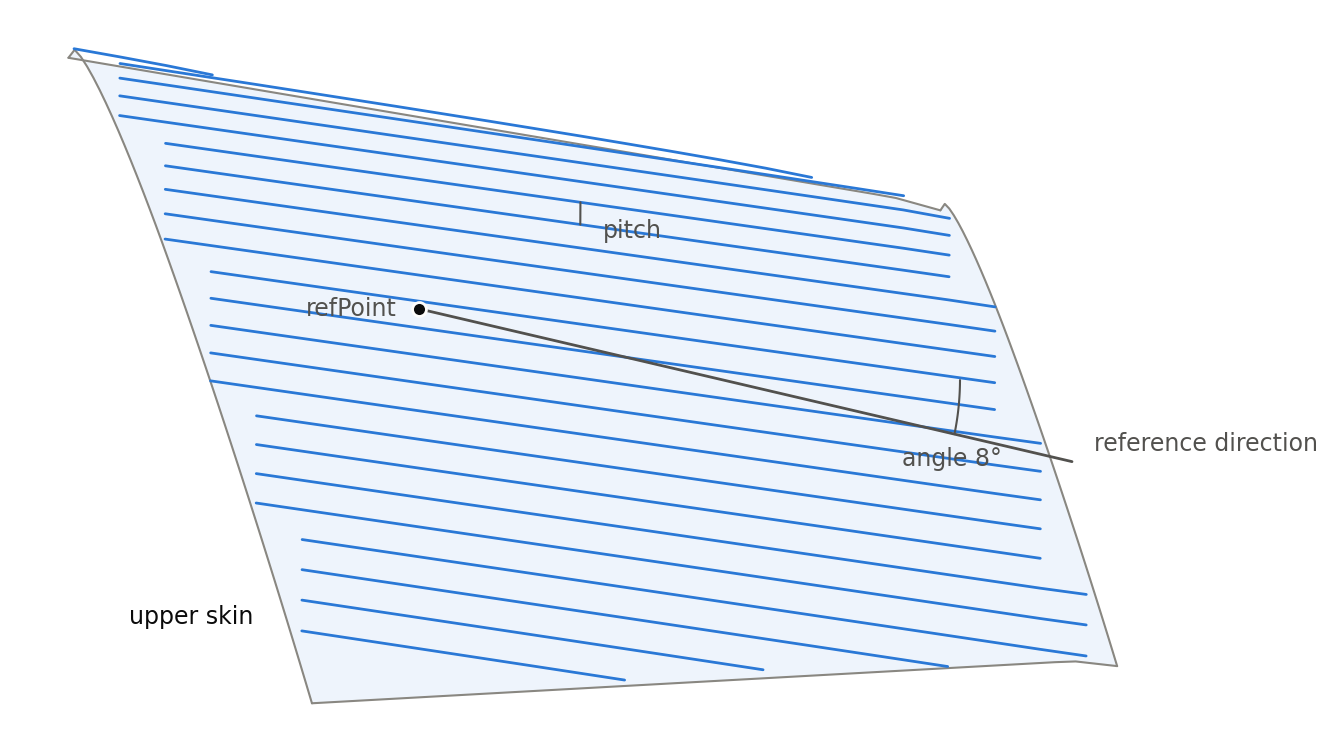
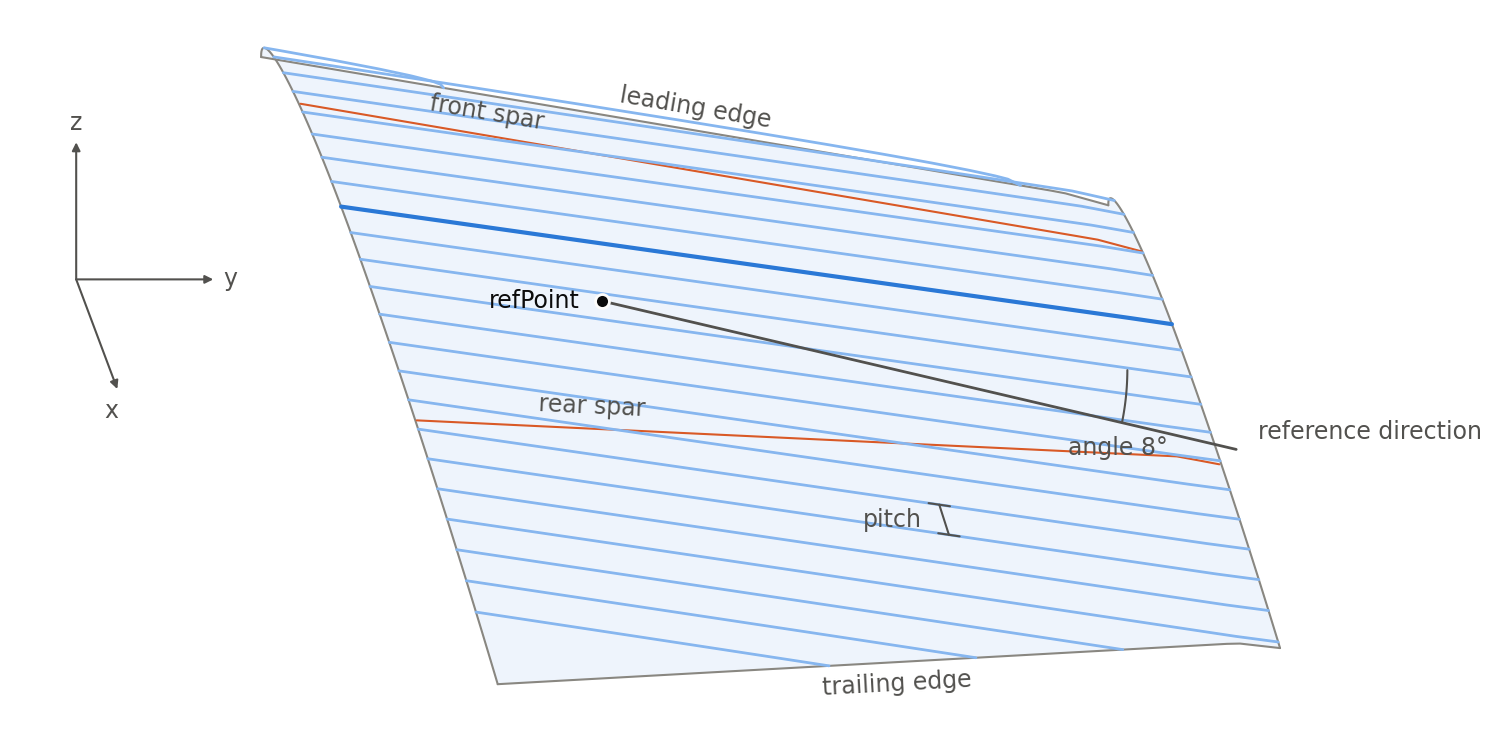
improve wingStringers figure

Changed region(s): [[0.0307, 0.0601, 1.0, 0.9617], [0.0922, 0.8115, 0.1844, 0.8415]]

diff --git a/documentation/scripts/wingStructure.py b/documentation/scripts/wingStructure.py
@@ -52,7 +52,7 @@ from controlSurface import (CONTOURS, Frame, LE_INDEX, draw_wing_section, midpla
 from example_xml import indent, write_cpacs_file
 from figure_style import COLORS, FULL_WIDTH, LINE, figure_style, leader, save_figure
 from structuralProfile import ELEMENT_UID, MATERIAL_UID, element_xml as structural_element_xml, material_xml, profile_xml
-from wing import (AIRFOIL, DOCUMENTATION, FIGURES, INK, INK2, MUTED, NOTE, WING_UID, airfoil_xml,
+from wing import (AIRFOIL, DOCUMENTATION, FIGURES, INK, INK2, MUTED, NOTE, WING_UID, airfoil_xml, arrow,
                   circle_profile_xml,
                   fuselage_xml, wing_xml)
 
@@ -743,24 +743,43 @@ def reference_direction():
     return (last - first) / np.linalg.norm(last - first)
 
 
-def stringer_path(offset, angle, inside=None, samples=160):
+def stringer_path(offset, angle, inside=None, samples=60):
     """One stringer on the upper skin: a straight line in the top view, lifted onto the skin.
 
-    offset is the distance from the reference point, measured perpendicular to the stringer.
+    offset is the distance from the reference point, measured perpendicular to the stringer. The
+    stringer ends where it leaves the skin, found by halving the interval, not at the last sample
+    inside it, so that neighbouring stringers end on a smooth edge.
     """
     direction = rotation_z(angle) @ reference_direction()
     across = np.array([-direction[1], direction[0], 0.0])
     eta, xsi, _ = SHELLS["upperShell"]["stringer"]["refPoint"]
     start = component_segment_point(eta, xsi) + offset * across
-    points = []
-    for t in np.linspace(-20.0, 20.0, samples):
+
+    def on_skin(t):
         try:
             eta, xsi = chord_surface_eta_xsi(start + t * direction)
         except (ValueError, np.linalg.LinAlgError):
-            continue
+            return None
         if 0.0 <= eta <= 1.0 and 0.0 <= xsi <= 1.0 and (inside is None or inside(eta)):
-            points.append(upper_skin_point(eta, xsi))
-    return np.array(points)
+            return upper_skin_point(eta, xsi)
+        return None
+
+    coarse = [t for t in np.linspace(-20.0, 20.0, 400) if on_skin(t) is not None]
+    if len(coarse) < 2:
+        return np.array([])
+
+    def edge(t_in, t_out):
+        for _ in range(40):
+            middle = 0.5 * (t_in + t_out)
+            if on_skin(middle) is None:
+                t_out = middle
+            else:
+                t_in = middle
+        return t_in
+
+    first = edge(coarse[0], coarse[0] - (40.0 / 399))
+    last = edge(coarse[-1], coarse[-1] + (40.0 / 399))
+    return np.array([p for p in (on_skin(t) for t in np.linspace(first, last, samples)) if p is not None])
 
 
 def section_frame(eta):
@@ -962,12 +981,18 @@ def figure_stringers():
     def inside(eta):
         return eta_a <= eta <= eta_b
 
+    def draw(ax, points, color, width, zorder=2, alpha=1.0):
+        ax.plot(*project(np.asarray(points)).T, color=color, lw=width, zorder=zorder, alpha=alpha,
+                solid_capstyle="round")
+
     with figure_style():
-        fig = plt.figure(figsize=(FULL_WIDTH, 3.6))
+        fig = plt.figure(figsize=(FULL_WIDTH, 3.5))
         ax = fig.add_axes((0.0, 0.0, 1.0, 1.0))
 
         # the patch of the upper skin, drawn as its outline
-        etas, xsis = np.linspace(eta_a, eta_b, 40), np.linspace(0.0, 1.0, 40)
+        # the skin turns fastest at the nose, so the chordwise samples are closer together there
+        etas = np.linspace(eta_a, eta_b, 60)
+        xsis = 0.5 * (1.0 - np.cos(np.linspace(0.0, np.pi, 90)))
         leading = np.array([upper_skin_point(eta, 0.0) for eta in etas])
         trailing = np.array([upper_skin_point(eta, 1.0) for eta in etas])
         inner = np.array([upper_skin_point(eta_a, xsi) for xsi in xsis])
@@ -975,37 +1000,67 @@ def figure_stringers():
         ax.add_patch(Polygon(project(np.vstack([leading, outer, trailing[::-1], inner[::-1]])), closed=True,
                              facecolor=SERIES1, alpha=WASH, edgecolor="none", zorder=0))
         for curve in (leading, trailing, inner, outer):
-            ax.plot(*project(curve).T, color=MUTED, lw=LINE["reference"], zorder=1)
+            draw(ax, curve, MUTED, LINE["reference"], zorder=1)
 
-        # the stringers: one runs through the reference point, the others at the pitch from it
+        # the two spars on the skin, so that the reader knows where the wing box is
+        for uid in ("frontSpar", "rearSpar"):
+            vertices = spar_mid_line(uid)
+            trace = [upper_skin_point(*chord_surface_eta_xsi(line_point(vertices, t)[0]))
+                     for t in np.linspace(0.0, 1.0, 120)]
+            trace = [p for p, t in zip(trace, np.linspace(0.0, 1.0, 120))
+                     if inside(chord_surface_eta_xsi(line_point(vertices, t)[0])[0])]
+            draw(ax, trace, SPAR, LINE["reference"], zorder=2)
+        for uid, name, at in (("frontSpar", "front spar", 0.17), ("rearSpar", "rear spar", 0.17)):
+            vertices = spar_mid_line(uid)
+            here = [line_point(vertices, t)[0] for t in (at - 0.01, at, at + 0.01)]
+            on_skin = [project(upper_skin_point(*chord_surface_eta_xsi(q))) for q in here]
+            edge_text(ax, on_skin[0], on_skin[2], on_skin[1], name, distance=GAP, up=True, rotate=True, color=INK2)
+
+        # the stringers: the one through the reference point leads, the others follow at the pitch
         paths = {}
         for k in range(-14, 15):
             path = stringer_path(pitch * k, angle, inside)
             if len(path) > 1:
                 paths[k] = path
-                ax.plot(*project(path).T, color=CELL, lw=LINE["secondary"], zorder=2)
+                draw(ax, path, CELL if k == 0 else COLORS["series1Light"],
+                     LINE["data"] if k == 0 else LINE["secondary"], zorder=4 if k == 0 else 3)
 
-        # the reference direction of the angle, from the reference point of the stringers
+        # the angle, between the reference direction and the stringer through the reference point
         reference = reference_direction()
         corner = component_segment_point(*stringer["refPoint"][:2])
         span = 3.6  # length of the drawn reference direction [m]
-        ax.plot(*project(np.array([corner, corner + span * reference])).T, color=INK2, lw=LINE["secondary"], zorder=3)
+        draw(ax, [corner, corner + span * reference], INK2, LINE["secondary"], zorder=5)
         sector = np.array([corner + 0.82 * span * (rotation_z(a) @ reference) for a in np.linspace(0.0, angle, 40)])
-        ax.plot(*project(sector).T, color=INK2, lw=LINE["reference"], zorder=3)
+        draw(ax, sector, INK2, LINE["reference"], zorder=5)
         text(ax, project(corner + span * reference), "reference direction", (GAP, 2), ha="left", va="bottom",
              color=INK2)
         text(ax, project(corner + 0.92 * span * (rotation_z(0.5 * angle) @ reference)), f"angle {angle:g}°",
              (-GAP, -GAP - 2), ha="right", va="top", color=INK2)
         point_marker(ax, project(corner))
-        text(ax, project(corner), "refPoint", (-GAP, 0), ha="right", color=INK2)
+        text(ax, project(corner), "refPoint", (-GAP, 0), ha="right", color=INK)
 
-        # the pitch, measured perpendicular to the stringers
-        a, b = paths[2], paths[3]
-        i, j = int(0.5 * len(a)), int(0.5 * len(b))
-        ax.plot(*project(np.array([a[i], b[j]])).T, color=INK2, lw=LINE["reference"], zorder=4)
-        text(ax, project(0.5 * (a[i] + b[j])), "pitch", (GAP, -2), ha="left", va="top", color=INK2)
-        text(ax, project(upper_skin_point(eta_a, 0.85)), "upper skin", (-GAP, -GAP), ha="right", va="top",
-             color=INK)
+        # the pitch: a dimension between two neighbouring stringers, perpendicular to them
+        a, b = paths[-9], paths[-8]
+        i = int(0.62 * len(a))
+        foot, head = a[i], b[int(0.62 * len(b))]
+        draw(ax, [foot, head], INK2, LINE["reference"], zorder=6)
+        along = (a[min(i + 4, len(a) - 1)] - a[max(i - 4, 0)])
+        along = 0.06 * along / np.linalg.norm(along)
+        for at in (foot, head):
+            draw(ax, [at - along, at + along], INK2, LINE["reference"], zorder=6)
+        text(ax, project(0.5 * (foot + head)), "pitch", (-GAP, 0), ha="right", color=INK2)
+
+        # what the reader is looking at: the edges of the patch and the axes of the wing
+        edge_text(ax, project(leading[5]), project(leading[-5]), project(leading[len(leading) // 2]),
+                  "leading edge", distance=GAP, up=True, rotate=True, color=INK2)
+        edge_text(ax, project(trailing[5]), project(trailing[-5]), project(trailing[len(trailing) // 2]),
+                  "trailing edge", distance=GAP, up=False, rotate=True, color=INK2)
+        origin = upper_skin_point(eta_a, 0.45) + np.array([0.0, -1.7, 0.0])
+        for direction, label_text, offset in (((1.0, 0.0, 0.0), "x", (-2, -8)), ((0.0, 1.0, 0.0), "y", (6, 0)),
+                                              ((0.0, 0.0, 1.0), "z", (0, 7))):
+            tip = origin + 0.8 * np.asarray(direction)
+            arrow(ax, project(origin), project(tip), color=INK2, lw=LINE["reference"], head=6)
+            text(ax, project(tip), label_text, offset, color=INK2)
 
         ax.set_aspect("equal")
         ax.axis("off")
